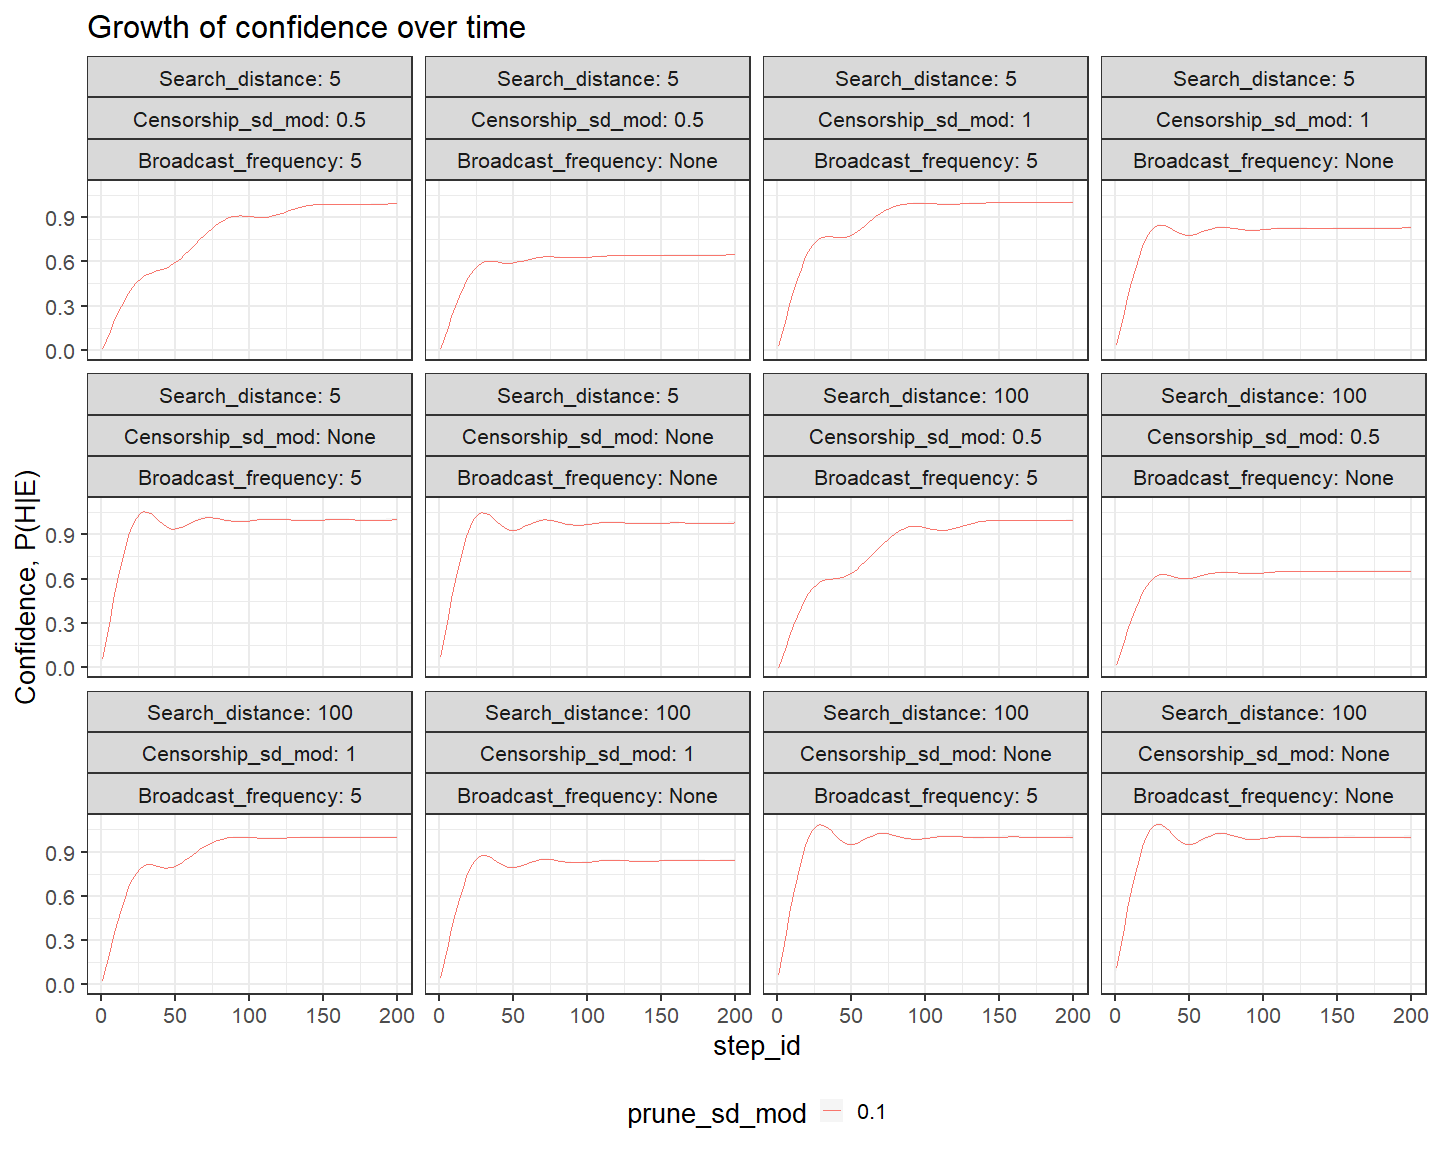
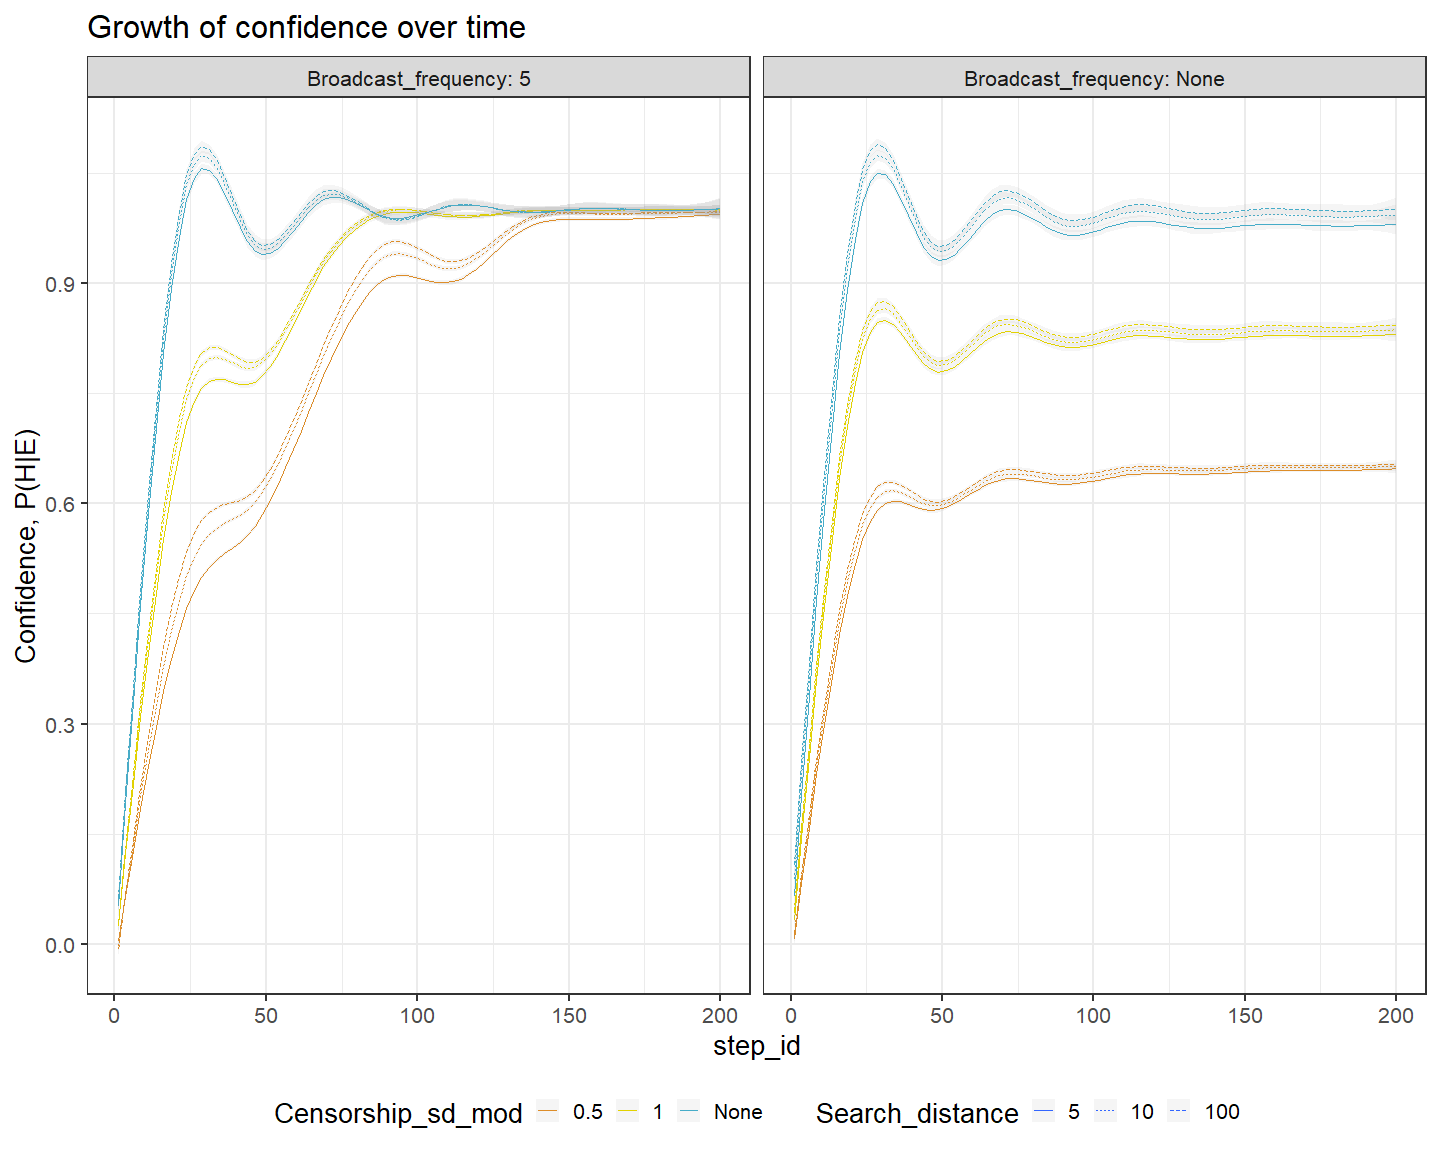
changed some colors on the plots to make them easier to discern

diff --git a/echoPlots.md b/echoPlots.md
@@ -221,9 +221,8 @@ distributionData %>%
 distributionData %>%
   filter(Number_of_agents == 1000, Search_distance == 10, step_id == 50) %>%
   ggplot(aes(`prior-val`,
-             color = Censorship_sd_mod,
-             linetype = Censorship_sd_mod)) +
-  facet_wrap(Broadcast_frequency ~ prune_sd_mod, labeller = label_both) +
+             color = prune_sd_mod)) +
+  facet_wrap(Broadcast_frequency~Censorship_sd_mod, labeller = label_both) +
   geom_density() +
   ggtitle("Distribution of beliefs") +
   labs(x = "Belief state")
@@ -346,12 +345,12 @@ distributionDataShort <- distributionDataShort %>%
 distributionDataShort %>%
   filter(Search_distance == 10, step_id == 50) %>%
   ggplot(aes(`prior-val`,
-             color = Censorship_sd_mod,
-             linetype = Censorship_sd_mod)) +
+             color = Censorship_sd_mod)) +
   facet_wrap(Broadcast_frequency ~ prune_sd_mod, labeller = label_both) +
   geom_density() +
   ggtitle("Distribution of beliefs") +
-  labs(x = "Belief state")
+  labs(x = "Belief state") +
+  scale_color_manual(values = wes_palette("FantasticFox1"))
 ```
 
 ![](echoPlots_files/figure-gfm/unnamed-chunk-11-1.png)<!-- -->
@@ -360,12 +359,13 @@ distributionDataShort %>%
 ABM_DataShort %>%
   ggplot(aes(step_id,
              glob_purity,
-             linetype = Censorship_sd_mod,
-             color = prune_sd_mod,)) +
-  facet_wrap(Search_distance  ~ Broadcast_frequency, labeller = label_both) +
+             color = prune_sd_mod,
+             linetype = Search_distance)) +
+  facet_wrap( .~ Broadcast_frequency, labeller = label_both) +
   geom_smooth(size = 0.1, alpha = 0.1) +
   ggtitle("Growth of belief purity over time") +
-  labs(y = "Belief Purity")
+  labs(y = "Belief Purity") +
+  scale_color_manual(values = wes_palette("FantasticFox1"))
 ```
 
     ## `geom_smooth()` using method = 'gam' and formula 'y ~ s(x, bs = "cs")'
@@ -374,31 +374,18 @@ ABM_DataShort %>%
 
 ``` r
 ABM_DataShort %>%
-  filter(Number_of_agents == 1000, Search_distance != 10) %>%
+  filter(Number_of_agents == 1000) %>%
   ggplot(aes(step_id,
              glob_p_h,
-             color = prune_sd_mod)) +
-  facet_wrap(Search_distance ~ Censorship_sd_mod ~ Broadcast_frequency,
+             color = Censorship_sd_mod,
+             linetype = Search_distance)) +
+  facet_wrap(~Broadcast_frequency,
              labeller = label_both) + geom_smooth(size = 0.1, alpha = 0.1) +
   ggtitle("Growth of confidence over time") +
-  labs(y = "Confidence, P(H|E)")
+  labs(y = "Confidence, P(H|E)") +
+  scale_color_manual(values = wes_palette("FantasticFox1"))
 ```
 
     ## `geom_smooth()` using method = 'gam' and formula 'y ~ s(x, bs = "cs")'
 
 ![](echoPlots_files/figure-gfm/unnamed-chunk-13-1.png)<!-- -->
-
-``` r
-ABM_DataShort %>%
-  ggplot(aes(step_id,
-             glob_p_h,
-             linetype = Censorship_sd_mod,
-             color = prune_sd_mod)) +
-  facet_wrap(Search_distance ~ Broadcast_frequency, labeller = label_both) +
-  geom_smooth(size = 0.1, alpha = 0.1) +
-  ggtitle("Growth of confidence over time")
-```
-
-    ## `geom_smooth()` using method = 'gam' and formula 'y ~ s(x, bs = "cs")'
-
-![](echoPlots_files/figure-gfm/unnamed-chunk-14-1.png)<!-- -->
